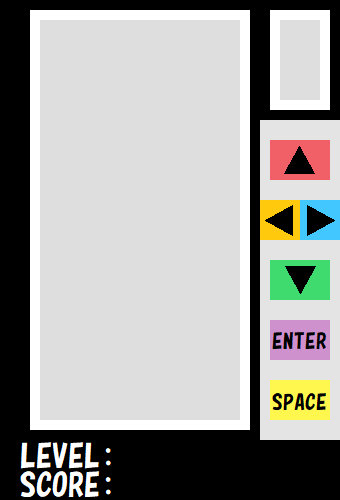
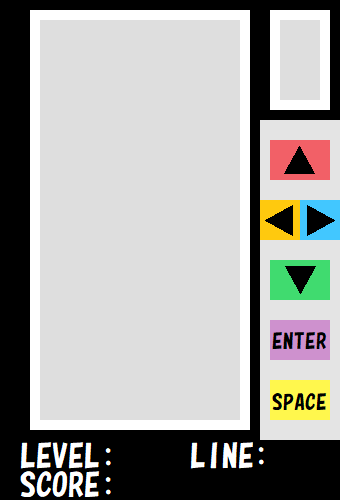
ライン数表示

Changed region(s): [[0.6176, 0.87, 0.7941, 0.96], [0.5588, 0.87, 0.5882, 0.96]]

diff --git a/src/draw.js b/src/draw.js
@@ -19,6 +19,10 @@ function drawLVnum(s, n){
 function drawSCOREnum(s, n){
   drawnumber(203 - 18 * s, 470, n);
 }
+// ライン数表示用(0, 1, 2)
+function drawLINESnum(s, n){
+  drawnumber(302 - 18 * s, 440, n);
+}
 
 // 配置済みのタイルを描画する
 function drawBase(){
@@ -57,6 +61,15 @@ function drawScore(){
   }
 }
 
+// ライン数を表示する
+function drawLines(){
+  tmp = lines;
+  for(i = 0; i < 3; i++){
+    drawLINESnum(i, tmp % 10);
+    tmp = Math.floor(tmp / 10);
+  }
+}
+
 // 描画関数
 function draw(){
   ctx.drawImage(gameBoard, 0, 0); // ゲームボードで初期化
@@ -64,6 +77,7 @@ function draw(){
   drawNext();  // 次に落ちてくるテトリミノを描画
   drawLevel(); // レベル表示
   drawScore(); // スコア表示
+  drawLines(); // ライン数表示
 
   // PLAY又はPAUSEの場合はテトリミノを描画する
   if(state == PLAY || state == PAUSE){
